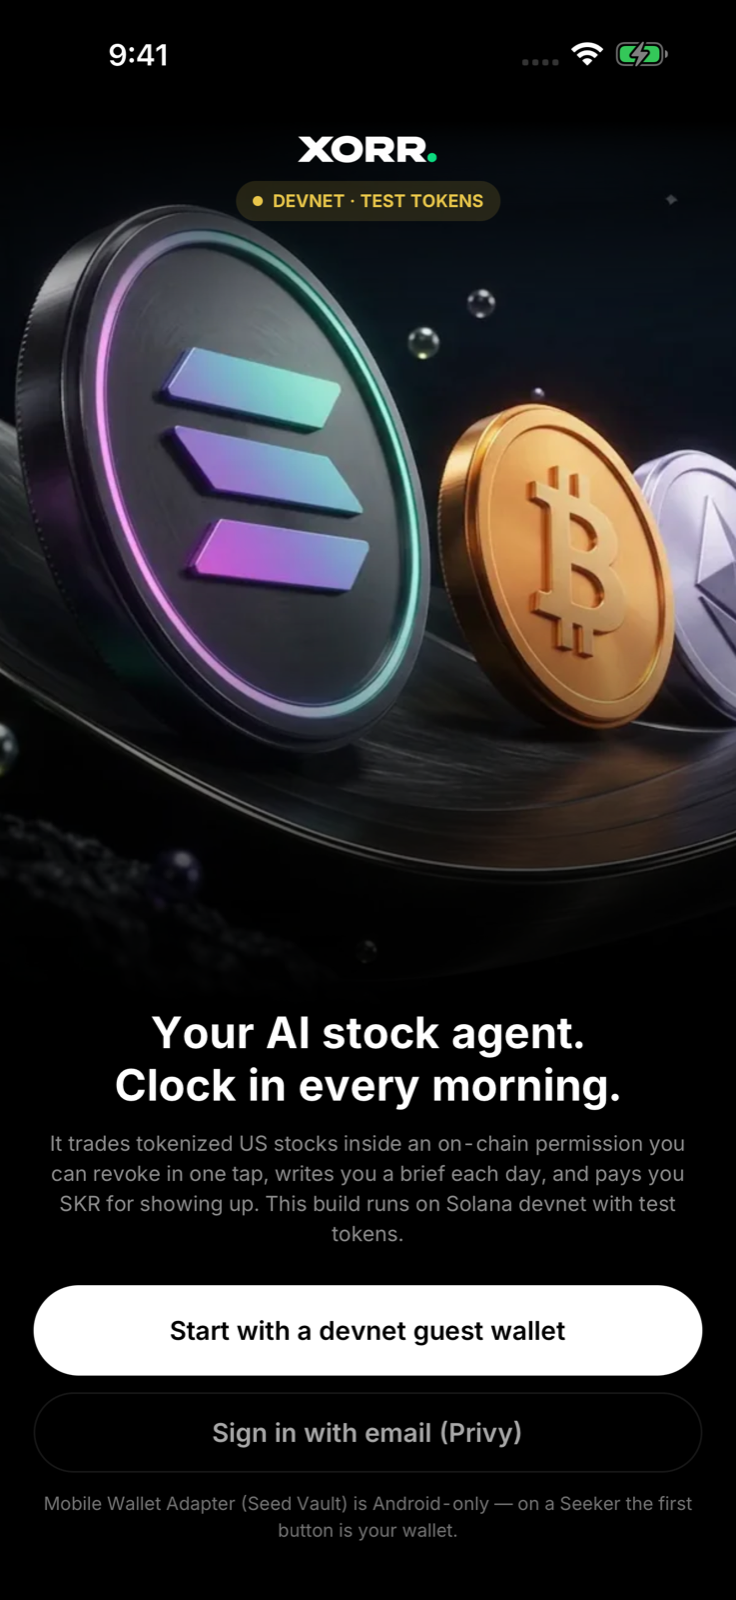
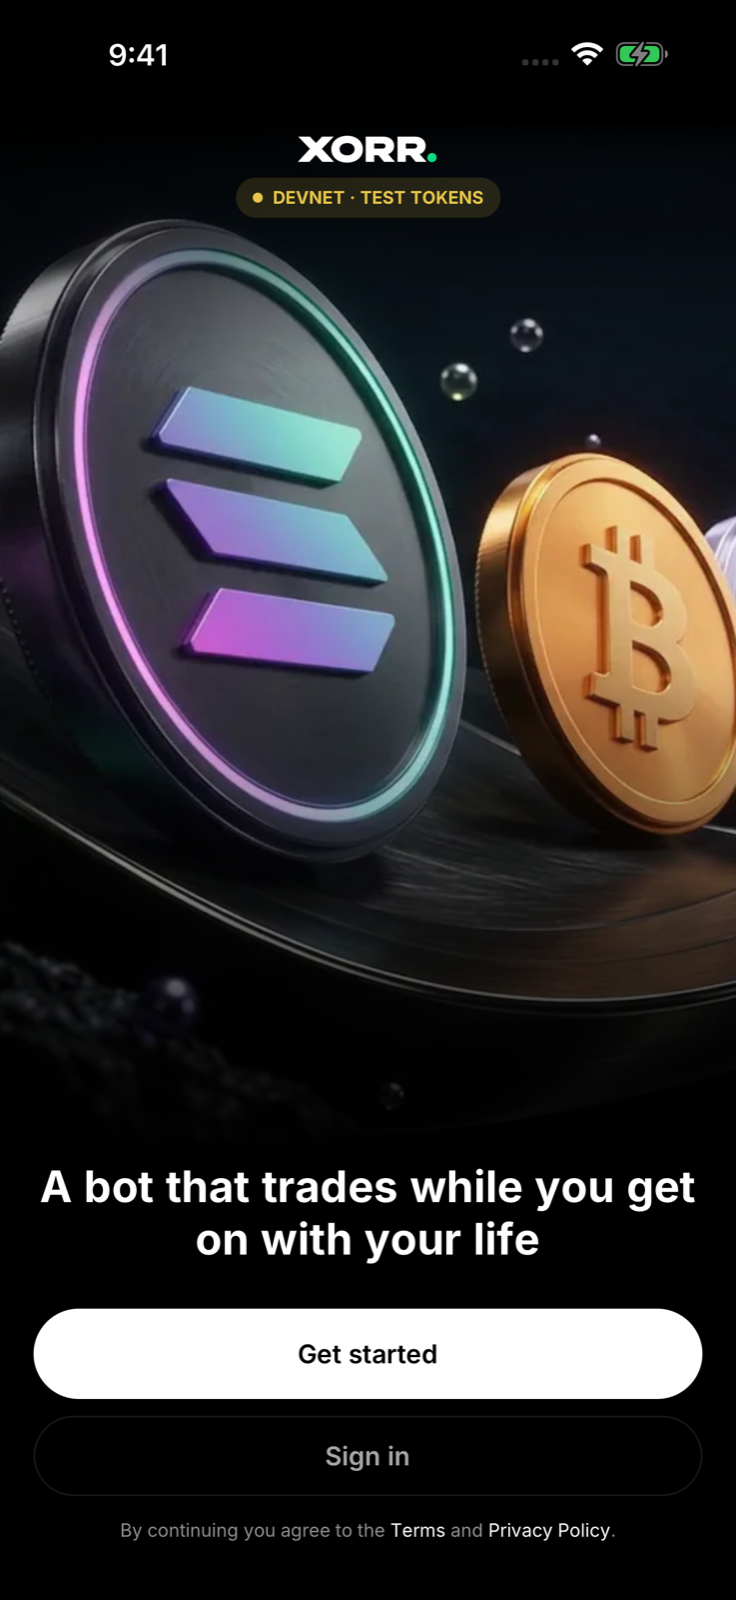
Screens and docs for the xorr UI; Home offers devnet SOL when the faucet is dry
clockin/screens holds the new simulator captures; clockin/screens/xlayer-ui
puts each xorr-xlayer reference screen next to the CLOCK IN one (welcome,
Home, Stocks, Safety/Your agent, chat/Ask). README, demo script, pitch,
submission and handoff now name Home, Your agent (Trade), SKR, Profile, Ask.

diff --git a/src/clockin/screens/ClockinHome.tsx b/src/clockin/screens/ClockinHome.tsx
@@ -31,7 +31,7 @@ import { STAGGER } from '@/ui/motion';
 import { heavyTap, selectionTick, successTap, warningTap } from '@/ui/haptics';
 import { CLOCKIN_AGENTS } from '../agents';
 import { STOCKS } from '../config';
-import { checkIn, ensureDesk, friendlyError, useLive, type CheckInResult } from '../desk';
+import { checkIn, ensureDesk, feeMode, friendlyError, getDevnetSol, useLive, type CheckInResult } from '../desk';
 import { driftPct, nasdaqOpen } from '../engine';
 import { useAutopilot, useScrollAutopilot } from '../autopilot';
 import { useClockin } from '../session';
@@ -225,6 +225,20 @@ export default function ClockinHome() {
                 testID="retry-setup"
               />
             ) : null}
+          </View>
+        ) : null}
+
+        {live.view && feeMode(live.view) === 'self' && live.view.sol < 0.003 ? (
+          <View style={{ marginTop: space.s12, paddingHorizontal: space.gutter, gap: space.s8 }}>
+            <Banner text="xorr’s devnet faucet is out of SOL right now, so transactions need a little devnet SOL of your own (free, test only)." />
+            <Button
+              label={busy === 'Requesting devnet SOL' ? 'Requesting…' : 'Get devnet SOL'}
+              variant="secondary"
+              loading={busy === 'Requesting devnet SOL'}
+              onPress={() => {
+                if (owner) void getDevnetSol(owner).catch((e) => setError(friendlyError(e)));
+              }}
+            />
           </View>
         ) : null}
 

diff --git a/HANDOFF.md b/HANDOFF.md
@@ -6,7 +6,7 @@ Deadline: **2026-10-09 06:59 UTC** (Oct 8, 23:59 PDT).
 ## What this is
 
 A Seeker-first, devnet-only build of xorr for Solana Mobile CLOCK IN. Everything new is in `src/clockin/`,
-`app/(clockin)/`, `app/start.tsx`, `tools/clockin/` and `plugins/with-release-signing.js`. Setting
+`app/start.tsx`, `app/desk.tsx`, `app/skr.tsx`, `app/me.tsx`, `app/ask.tsx`, `tools/clockin/` and `plugins/with-release-signing.js`. Setting
 `EXPO_PUBLIC_CLOCKIN=1` selects it. Without that, the app builds as the hosted STOCKLANA mainnet app, unchanged.
 In this build the root and the hosted tab shell redirect to `/today`, and nothing that talks to the hosted executor is
 mounted.
@@ -18,7 +18,8 @@ mounted.
 | Unit rules: streak, tiers and shifts, the agent engine (exits, guard, pacing, allowance, DST-aware Nasdaq session), the brief, *Ask your agent* answers without a model, the faucet-busy wording | `npx vitest run src/clockin`: 19 passed (the on-chain suites skip without `CLOCKIN_LIVE`) |
 | The whole permission loop **on chain**: fund with no owner signature → clock-in memo and reward → SKR shift payment → `ApproveChecked` grant → agent buy as delegate (allowance falls by exactly the spend) → over-cap transfer **refused by the token program** → agent sale through its approval → `Revoke` → buy after revoke **refused** | `CLOCKIN_LIVE=1 npx vitest run src/clockin/chain.devnet.test.ts` against a local `solana-test-validator`: 8/8 |
 | The same loop when xorr's faucet has no SOL: owner pays fees and rent, the agent receives 0.03 SOL with the grant and pays for its own trades | same file, `CLOCKIN_SELFPAY=1`: 9/9 |
-| The app on **iPhone 17 Pro Max simulator** (debug build, Metro 8481), against a local validator on :4400: Start → guest wallet → funded (1,000 dUSDC, 250 dSKR) → grant 100 → agent bought NVDAx/TSLAx/MSFTx at live Jupiter prices → *Test the cap* refused on chain → clock-in day 1 (+15 dSKR) → agent bought SPYx → Night Shift paid with 20 dSKR → revoke | Signatures in the JS log; screenshots `clockin/screens/01…12`. Taps were driven by a dev-only remote (`src/clockin/autopilot.ts`, `tools/clockin/remote.mjs`, compiled out of release builds) because nobody was at the simulator |
+| The app on **iPhone 17 Pro Max simulator** (debug build, Metro 8481), against a local validator on :4400: Start → guest wallet → funded (1,000 dUSDC, 250 dSKR) → grant 100 → agent bought NVDAx/TSLAx/MSFTx at live Jupiter prices → *Test the cap* refused on chain → clock-in day 1 (+15 dSKR) → agent bought SPYx → Night Shift paid with 20 dSKR → revoke | Signatures in the JS log; screenshots (Oct 6 UI, since replaced). Taps were driven by a dev-only remote (`src/clockin/autopilot.ts`, `tools/clockin/remote.mjs`, compiled out of release builds) because nobody was at the simulator |
+| **Oct 7: the UI is xorr's own** (the xorr-xlayer design: welcome, Home with balance + live line + sheet of tabs + ARMED chip, Safety layout for the permission, TabBar Home/Trade/Ask). Re-verified from a fresh install on the iPhone 17 Pro Max simulator (local validator, per-phone mints, self-paid fees): connect (guest) → grant 100 → agent bought SPYx → cap refused on chain → clock-in day 1 (+15 dSKR) → Night Shift paid 20 dSKR → revoke; an unknown deep link lands on Home | Side by side with the xorr-xlayer reference: `clockin/screens/xlayer-ui/01…05`; new screens `clockin/screens/01…13` and `xlayer-ui/10…18` |
 | **Device-mint bootstrap** (no shared stand-in set on the cluster): the phone created its own 7 mints, funded the wallet, granted with agent gas, the agent bought TSLAx paying its own fee, and the cap held | same simulator session, after emptying `devnet.json` |
 | Live prices | Jupiter `price/v3` (lite-api, then api.jup.ag on 429), 20 s cache, 60 s back-off. Seen live in the app |
 | Release APK builds and is signed with xorr's own release key (not the debug key) | `tools/clockin/build-apk.sh`. `apksigner verify --print-certs` → `CN=xorr CLOCK IN, O=xorr, C=IN`. The MWA native module (`com.solanamobile.mobilewalletadapter.reactnative`) is in the dex |
@@ -48,13 +49,13 @@ mounted.
 1. If the shared stand-in set in `src/clockin/devnet.json` exists on devnet **and** xorr's faucet key holds ≥ 0.02 SOL,
    the faucet pays every fee and rent. A judge needs nothing.
 2. If the shared set exists but the faucet is dry, the owner pays fees from devnet SOL. The app asks devnet's own faucet
-   on the owner's behalf, and *Get devnet SOL* on Today and Me retries. The agent gets 0.03 SOL with the grant.
+   on the owner's behalf, and *Get devnet SOL* on Home and Profile retries. The agent gets 0.03 SOL with the grant.
 3. If there is no shared set (the **current state** of the committed `devnet.json`), the phone creates its own seven
    mints on first run (about 0.011 SOL of rent, paid from a 1 SOL devnet airdrop to the owner), and then case 2 applies.
    **The risk:** this path depends on devnet's public faucet granting an airdrop to the judge's phone, and that faucet
    rate-limits per IP. When it refuses, the app does not dead-end. Start shows "Devnet's free faucet is busy (it
    rate-limits test SOL). Nothing is wrong with your wallet — try again in a minute or two." with a **Try again** button,
-   and Today shows **Try setting up again** and **Get devnet SOL**. A smaller 0.05 SOL request is tried automatically
+   and Home shows **Try setting up again** and **Get devnet SOL**. A smaller 0.05 SOL request is tried automatically
    after a refused 1 SOL one. Funding the shared faucet (step 1 below) removes the risk entirely.
 
 ## What the user must do
@@ -72,7 +73,7 @@ mounted.
    Without funding, the APK still works: each phone creates its own set (see above), but every judge then needs a
    devnet airdrop to succeed from their phone.
 2. **Run the APK on a real Android phone (ideally a Seeker)** before submitting, and record the demo there
-   (`clockin/DEMO-SCRIPT.md`). Install a wallet if the phone has none. Check: *Connect wallet · Seed Vault* opens the
+   (`clockin/DEMO-SCRIPT.md`). Install a wallet if the phone has none. Check: *Connect wallet* opens the
    wallet, the grant and clock-in sign, and *Test the cap* shows a refused devnet transaction.
 3. Host the APK as a direct download (for example a GitHub Release asset on `nickthelegend/xorr-clockin`) and put the
    URL in the submission form. The file is at `/Volumes/Extreme SSD/Projects/clockin/apks/xorr-clockin.apk`. Its sha256

diff --git a/clockin/DEMO-SCRIPT.md b/clockin/DEMO-SCRIPT.md
@@ -7,21 +7,22 @@ Seed Vault sheet) or an emulator with an MWA wallet. The iOS simulator shows the
 | # | Time | Screen | Action | Narration |
 |---|---|---|---|---|
 | 1 | 0:00–0:08 | Start | App opens on the coin art, with the **DEVNET · TEST TOKENS** pill visible | "xorr is an AI agent that trades tokenized US stocks for you, without ever holding your money. This is the Seeker build, on Solana devnet." |
-| 2 | 0:08–0:18 | Start → Seed Vault sheet | Tap **Connect wallet · Seed Vault**, then approve in the wallet | "On a Seeker the first button is Seed Vault, over Mobile Wallet Adapter. xorr's devnet faucet sets the wallet up with test dollars and SKR. No signature needed." |
-| 3 | 0:18–0:30 | Today | Scroll slowly through the agent card and the brief | "Every morning the agent has a brief waiting: what the book did, what moved since I last clocked in, and what it plans to do, written from live Jupiter prices." |
-| 4 | 0:30–0:42 | Agent | Choose 100 dUSDC, tap **Sign permission**, approve in the wallet | "I give it a permission: one ApproveChecked on my dUSDC. The token program enforces the cap, not xorr." |
-| 5 | 0:42–0:55 | Today | Tap **Clock in · +15 dSKR**, sign, and watch the week strip light up and the "What it did just now" list appear | "I clock in with one signature. My streak goes up, I earn SKR, and the agent takes its look and buys, telling me why." |
-| 6 | 0:55–1:05 | Agent | Tap **Test the cap**, then open the explorer link | "Can it overspend? It tries 150 dUSDC against my 100. The token program refuses on devnet, and here's the failed transaction." |
-| 7 | 1:05–1:15 | SKR | Show the tier card, the earn table, and **Night Shift · 20 dSKR · 24h** | "SKR is what I pay my agent with. Clocking in earns it, a strategy shift spends it, and holding it sets my tier. If I already hold real SKR, my tier starts there." |
-| 8 | 1:15–1:25 | Agent | Tap **Revoke** and confirm | "And one tap stops everything: an SPL Revoke on every account. The agent can move nothing." |
-| 9 | 1:25–1:30 | Today | Hold on the streak strip | "Thirty seconds a day. Clock in tomorrow." |
+| 2 | 0:08–0:18 | Start → Seed Vault sheet | Tap **Connect wallet**, then approve in the wallet | "On a Seeker the first button is Seed Vault, over Mobile Wallet Adapter. xorr's devnet faucet sets the wallet up with test dollars and SKR. No signature needed." |
+| 3 | 0:18–0:30 | Home | Show the balance, the clock-in card, then the sheet's Agents and Brief tabs | "Every morning the agent has a brief waiting: what the book did, what moved since I last clocked in, and what it plans to do, written from live Jupiter prices." |
+| 4 | 0:30–0:42 | Trade → Your agent | Choose 100 dUSDC, tap **Sign permission**, approve in the wallet | "I give it a permission: one ApproveChecked on my dUSDC. The token program enforces the cap, not xorr." |
+| 5 | 0:42–0:55 | Home | Tap **Clock in · +15 dSKR**, sign, and watch the week strip light up and the Brief tab's "What it did just now" appear | "I clock in with one signature. My streak goes up, I earn SKR, and the agent takes its look and buys, telling me why." |
+| 6 | 0:55–1:05 | Your agent | Tap **Test the cap**, then open the explorer link | "Can it overspend? It tries 150 dUSDC against my 100. The token program refuses on devnet, and here's the failed transaction." |
+| 7 | 1:05–1:15 | SKR | Show the tier, the earn table, then hire **Night Shift · 20 SKR** on Your agent | "SKR is what I pay my agent with. Clocking in earns it, a strategy shift spends it, and holding it sets my tier. If I already hold real SKR, my tier starts there." |
+| 8 | 1:15–1:25 | Your agent | Hold **Stop all trading** | "And one tap stops everything: an SPL Revoke on every account. The agent can move nothing." |
+| 9 | 1:25–1:30 | Home | Hold on the streak strip | "Thirty seconds a day. Clock in tomorrow." |
 
 **Extended (portal cut, to about 3:00):**
-- *Look now* on the Agent tab: walk through the BUY and HOLD rows and their reasons, including a guard hold if one shows.
-- The trail on the Agent tab: tap one explorer link per action type.
-- The Me tab: wallet type and the morning-brief switch, which triggers the notification prompt.
-- Today scrolled: the book at live prices with P&L, and the Watching list showing pool versus issuer.
-- On a Seeker: the SKR tab's **Seeker verified · 1.5×** card.
+- *Look now* on Your agent: walk through the BUY and HOLD rows and their reasons, including a guard hold if one shows.
+- The trail on Your agent: tap one explorer link per action type.
+- Profile (avatar or bell on Home): wallet type and the morning-brief switch, which triggers the notification prompt.
+- Home's Stocks tab: holdings at live prices with P&L, and the watchlist showing pool versus issuer, with issuer logos.
+- Ask (tab bar): "Why NVDAx?" — the agent answers from its own numbers.
+- On a Seeker: the SKR screen's **Seeker verified · 1.5×** card.
 
 Everything above was performed in the app on the iOS simulator against a local Solana validator (Oct 6). Only the MWA
 and Seed Vault shots need an Android device; see HANDOFF.md.

diff --git a/clockin/PITCH.md b/clockin/PITCH.md
@@ -6,7 +6,7 @@ Each slide has a title, its on-slide content and speaker notes. Judges read the 
 
 ## 1. xorr: an AI stock agent you clock in with every morning
 
-**On slide:** the XORR wordmark, a phone showing Today (the agent's face, the morning brief, the gold *Clock in* button),
+**On slide:** the XORR wordmark, a phone showing Home (the total balance, the gold *Clock in* card, the agents),
 and the tagline "Tokenized US stocks on Solana, traded inside a permission you can revoke in one tap."
 
 **Notes:** xorr is an AI agent that trades tokenized US stocks for you on Solana and never holds your money. On Seeker it
@@ -30,7 +30,7 @@ cap* has the agent try to overspend, and devnet refuses it on screen with an exp
 
 ## 4. Why you open it every day
 
-**On slide:** the Today screen: the brief ("Your agent's book is up $0.09… Since your last clock-in: MSFTx +0.74%…"), a
+**On slide:** Home's clock-in card and Brief tab: the brief ("Your agent's book is up $0.09… Since your last clock-in: MSFTx +0.74%…"), a
 7-day streak strip, "+23 dSKR tomorrow" and the 8:30 notification.
 
 **Notes:** The brief is written from that morning's prices and from what changed since your last clock-in. Clocking in is
@@ -51,7 +51,7 @@ stand-in mint, labelled everywhere.
 
 ## 6. Seeker-native
 
-**On slide:** "Connect wallet · Seed Vault" as the first button, a Seed Vault signing sheet, and a "Seeker verified ·
+**On slide:** "Connect wallet" (Seed Vault) as the first button, a Seed Vault signing sheet, and a "Seeker verified ·
 1.5×" badge.
 
 **Notes:** Mobile Wallet Adapter 2.3 is the primary path. Each signature caches its auth token, so later ones need no
@@ -60,7 +60,7 @@ local notifications for the brief and for each agent trade.
 
 ## 7. The agent, honestly
 
-**On slide:** the Agent tab's "Look now" list: BUY / HOLD per stock, each with its reason ("Guard: the pool is +1.8% from
+**On slide:** Your agent's "Look now" list: BUY / HOLD per stock, each with its reason ("Guard: the pool is +1.8% from
 the issuer's mark…").
 
 **Notes:** The agent's decisions are rules you can read: exits first, then a guard comparing the Solana pool with the

diff --git a/README.md b/README.md
@@ -8,7 +8,7 @@
 that trades tokenized US stocks (Backed's xStocks) on Solana inside an SPL permission you can revoke in one tap. It never
 holds your money. The CLOCK IN build makes it a phone habit:
 
-- **Seeker-first wallet.** *Connect wallet · Seed Vault* is the first button on Android. It uses Mobile Wallet Adapter
+- **Seeker-first wallet.** *Connect wallet* (Seed Vault) is the first button on Android. It uses Mobile Wallet Adapter
   2.3, which is Seed Vault on a Seeker and Phantom, Solflare or Backpack elsewhere. Privy email sign-in and a devnet guest
   wallet are next to it, for iOS and for phones without a wallet.
 - **A morning clock-in.** Open the app and the agent's brief is waiting. It covers what your book did, what moved since
@@ -35,7 +35,7 @@ real xStocks**. No real money moves, and the CLOCK IN app never talks to xorr's 
 
 ## What a day looks like
 
-1. **Open** — Today: the agent's face and its brief, written from live Jupiter prices and the issuer's own mark.
+1. **Open** — Home, in xorr's design: the total balance, the live line, the daily clock-in card, and the sheet of Agents, the morning Brief, Stocks and SKR.
 2. **Clock in** — one signature (Seed Vault sheet on a Seeker). The streak goes up and dSKR lands. The agent looks right
    after: exits first, then the guard, then each strategy. It buys inside your permission and tells you why.
 3. **Check the book** — positions at live prices, P&L against cost, and every action on the trail with an explorer link.
@@ -44,7 +44,7 @@ real xStocks**. No real money moves, and the CLOCK IN app never talks to xorr's 
 
 ## How it is built (the CLOCK IN parts)
 
-Everything new is in [`src/clockin/`](src/clockin) and [`app/(clockin)/`](app/(clockin)), plus [`app/start.tsx`](app/start.tsx).
+Everything new is in [`src/clockin/`](src/clockin) (logic and `screens/ClockinHome.tsx`) and the screens `app/start.tsx`, `app/desk.tsx`, `app/skr.tsx`, `app/me.tsx`, `app/ask.tsx` — all drawn in xorr's own design system (the xorr-xlayer UI: same tab bar, Home sheet, Safety layout, type and colour).
 
 | Piece | What it does |
 |---|---|

diff --git a/clockin/SUBMISSION.md b/clockin/SUBMISSION.md
@@ -61,7 +61,7 @@ pool with the issuer's own mark for the share and holds when they have come apar
[1 lines of base64/hex data omitted]
 - Download: **APK URL (to be added: a GitHub Release asset)**
 - Install: allow installs from your browser or file manager, open the APK, then launch **xorr**. On a Seeker, tap
-  *Connect wallet · Seed Vault*. On another phone, install Phantom or Solflare, or use *Try with a devnet guest wallet*.
+  *Connect wallet* (Seed Vault). On another phone, install Phantom or Solflare, or tap *No wallet? Try it with a devnet guest wallet*.
 - Everything runs on Solana devnet with test tokens. No real money is involved.
 - **If the app says "Devnet's free faucet is busy":** devnet's public faucet rate-limits test SOL per IP. Tap **Try
   again** after a minute. This only happens while xorr's shared devnet faucet is unfunded, when each phone sets up its
